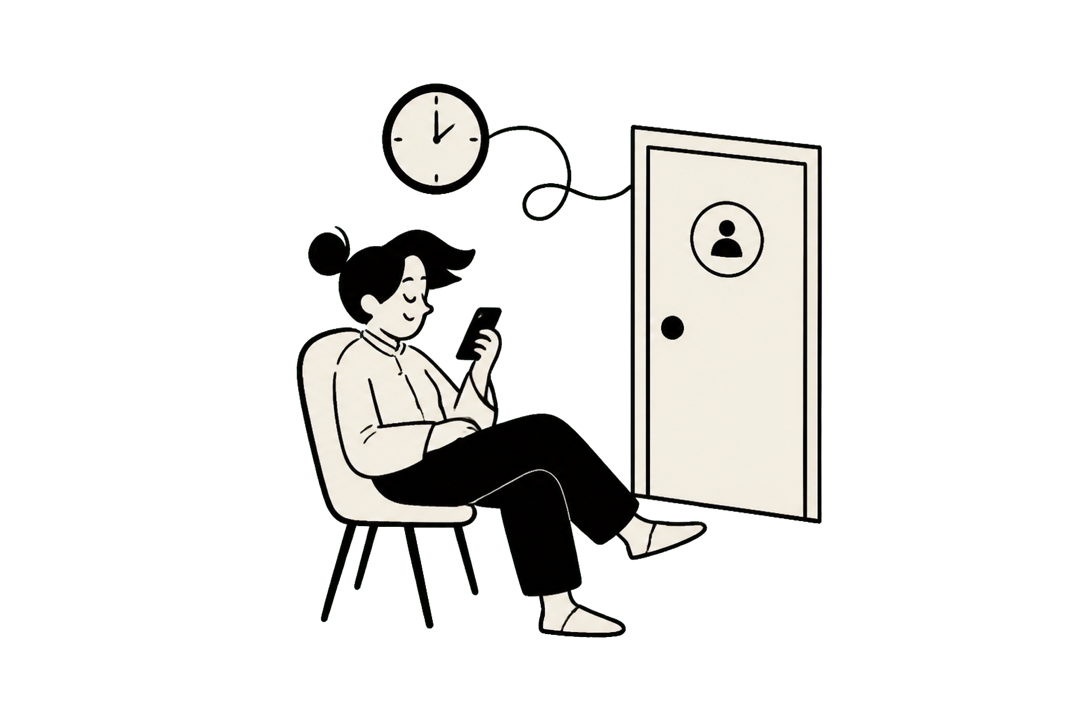
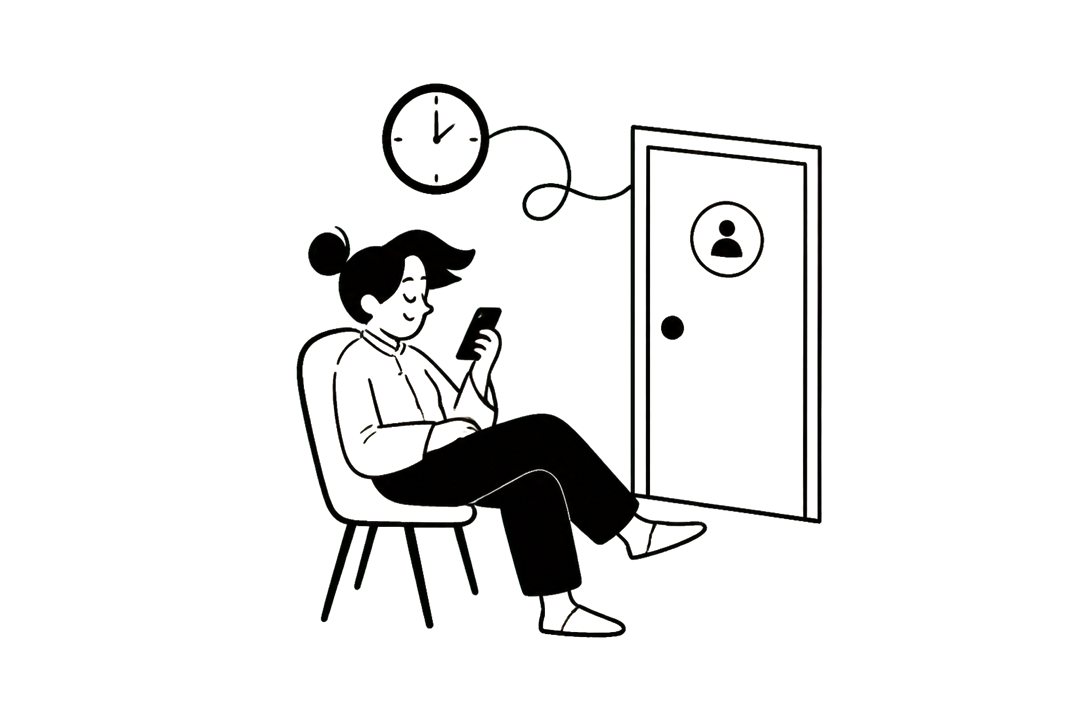
Punch out real alpha transparency in ink-illustration PNGs instead of approximating with mix-blend-mode
The old multiply-blend trick only fully cancels pure white; these PNGs used a
cream canvas plate, so a faint yellow tint still showed through on the grey
page background. Chroma-keyed the cream plate to true transparency in every
state-editorial-v5-ink and loading-v8 asset instead.

diff --git a/b2c/krane-b2c.html b/b2c/krane-b2c.html
@@ -273,12 +273,13 @@
     .state-view__tile:has(.krane-state-art)::before{content:none!important}
     .state-view__visual:has(.krane-state-art)>.state-view__badge{display:none!important}
     .krane-state-art{display:block;width:100%;height:100%;overflow:visible;color:#101722}
-    /* These illustrations are flattened PNGs with an opaque white canvas baked in.
-       Multiply-blending them onto the page removes that white plate and leaves
-       only the ink linework, so the art reads straight onto the cream background.
-       Targeting the <defs> source node too: SVG <use> instances keep the computed
-       style of the original node, not selectors matching the outer .krane-state-art. */
-    .krane-state-defs image,.krane-state-art image{mix-blend-mode:multiply}
+    /* 2026-08-16: these PNGs used to be flattened with an opaque cream canvas
+       baked in, approximated away with mix-blend-mode:multiply. That never
+       fully cancelled the cream (only true white multiplies to nothing), so a
+       faint yellow plate still showed on the grey page background. The source
+       PNGs are now punched out to real alpha transparency, so no blend hack
+       is needed any more; normal blending renders them correctly everywhere,
+       including on non-neutral backdrops like .doctor-work__media--ink. */
     .krane-state-defs{position:absolute;width:0;height:0;overflow:hidden;pointer-events:none}
     /* Styles must also target the source nodes inside <defs>. SVG <use> keeps
        those computed styles when it creates the rendered instance; styling
@@ -2480,7 +2481,7 @@
     <div class="screen__body state-view center" role="status" aria-live="polite">
       <div class="state-view__visual state-view__visual--loading" aria-label="Preparing your information">
         <span class="state-view__tile state-view__tile--cutout loading-illustration" data-loader="paper-crane" aria-hidden="true">
-          <span class="krane-state-art krane-paper-crane-media krane-crane-flipbook" aria-hidden="true"><img class="krane-crane-frame krane-crane-frame--1" src="assets/loading-v8/paper-crane-frame-01-v8.png?v=20260816-white-monochrome-v9" width="560" height="360" alt=""><img class="krane-crane-frame krane-crane-frame--2" src="assets/loading-v8/paper-crane-frame-02-v8.png?v=20260816-white-monochrome-v9" width="560" height="360" alt=""><img class="krane-crane-frame krane-crane-frame--3" src="assets/loading-v8/paper-crane-frame-03-v8.png?v=20260816-white-monochrome-v9" width="560" height="360" alt=""><img class="krane-crane-frame krane-crane-frame--4" src="assets/loading-v8/paper-crane-frame-04-v8.png?v=20260816-white-monochrome-v9" width="560" height="360" alt=""><img class="krane-crane-frame krane-crane-frame--5" src="assets/loading-v8/paper-crane-frame-05-v8.png?v=20260816-white-monochrome-v9" width="560" height="360" alt=""></span>
+          <span class="krane-state-art krane-paper-crane-media krane-crane-flipbook" aria-hidden="true"><img class="krane-crane-frame krane-crane-frame--1" src="assets/loading-v8/paper-crane-frame-01-v8.png?v=20260816-transparent-bg-v1" width="560" height="360" alt=""><img class="krane-crane-frame krane-crane-frame--2" src="assets/loading-v8/paper-crane-frame-02-v8.png?v=20260816-transparent-bg-v1" width="560" height="360" alt=""><img class="krane-crane-frame krane-crane-frame--3" src="assets/loading-v8/paper-crane-frame-03-v8.png?v=20260816-transparent-bg-v1" width="560" height="360" alt=""><img class="krane-crane-frame krane-crane-frame--4" src="assets/loading-v8/paper-crane-frame-04-v8.png?v=20260816-transparent-bg-v1" width="560" height="360" alt=""><img class="krane-crane-frame krane-crane-frame--5" src="assets/loading-v8/paper-crane-frame-05-v8.png?v=20260816-transparent-bg-v1" width="560" height="360" alt=""></span>
         </span>
         <span class="state-view__badge"><i data-lucide="sparkles" class="ui-icon" aria-hidden="true"></i></span>
       </div>
@@ -7837,87 +7838,87 @@
     </g>
 
     <symbol id="krane-state-consult-payment-failed" viewBox="0 0 560 360">
-      <image href="assets/state-editorial-v5-ink/consult-payment-failed.png?v=20260815-active-ink-v1" width="560" height="360" preserveAspectRatio="xMidYMid meet"/>
+      <image href="assets/state-editorial-v5-ink/consult-payment-failed.png?v=20260816-transparent-bg-v1" width="560" height="360" preserveAspectRatio="xMidYMid meet"/>
     </symbol>
 
     <symbol id="krane-state-payment-failed" viewBox="0 0 560 360">
-      <image href="assets/state-editorial-v5-ink/payment-failed.png?v=20260815-active-ink-v1" width="560" height="360" preserveAspectRatio="xMidYMid meet"/>
+      <image href="assets/state-editorial-v5-ink/payment-failed.png?v=20260816-transparent-bg-v1" width="560" height="360" preserveAspectRatio="xMidYMid meet"/>
     </symbol>
 
     <symbol id="krane-state-payment-success" viewBox="0 0 560 360">
-      <image href="assets/state-editorial-v5-ink/payment-success.png?v=20260815-clean-payment-v1" width="560" height="360" preserveAspectRatio="xMidYMid meet"/>
+      <image href="assets/state-editorial-v5-ink/payment-success.png?v=20260816-transparent-bg-v1" width="560" height="360" preserveAspectRatio="xMidYMid meet"/>
     </symbol>
 
     <symbol id="krane-state-doctor-matching" viewBox="0 0 560 360">
-      <image href="assets/state-editorial-v5-ink/doctor-matching-roles-v1.png?v=20260815-role-alignment-v1" width="560" height="360" preserveAspectRatio="xMidYMid meet"/>
+      <image href="assets/state-editorial-v5-ink/doctor-matching-roles-v1.png?v=20260816-transparent-bg-v1" width="560" height="360" preserveAspectRatio="xMidYMid meet"/>
     </symbol>
 
     <symbol id="krane-state-nurse-ready" viewBox="0 0 560 360">
-      <image href="assets/state-editorial-v5-ink/nurse-ready.png?v=20260815-active-ink-v1" width="560" height="360" preserveAspectRatio="xMidYMid meet"/>
+      <image href="assets/state-editorial-v5-ink/nurse-ready.png?v=20260816-transparent-bg-v1" width="560" height="360" preserveAspectRatio="xMidYMid meet"/>
     </symbol>
 
     <symbol id="krane-state-no-slots" viewBox="0 0 560 360">
-      <image href="assets/state-editorial-v5-ink/no-slots.png?v=20260815-active-ink-v1" width="560" height="360" preserveAspectRatio="xMidYMid meet"/>
+      <image href="assets/state-editorial-v5-ink/no-slots.png?v=20260816-transparent-bg-v1" width="560" height="360" preserveAspectRatio="xMidYMid meet"/>
     </symbol>
 
     <symbol id="krane-state-waiting-room" viewBox="0 0 560 360">
-      <image href="assets/state-editorial-v5-ink/waiting-room-roles-v1.png?v=20260815-role-alignment-v1" width="560" height="360" preserveAspectRatio="xMidYMid meet"/>
+      <image href="assets/state-editorial-v5-ink/waiting-room-roles-v1.png?v=20260816-transparent-bg-v1" width="560" height="360" preserveAspectRatio="xMidYMid meet"/>
     </symbol>
 
     <symbol id="krane-state-treatment-plan" viewBox="0 0 560 360">
-      <image href="assets/state-editorial-v5-ink/treatment-plan-roles-v1.png?v=20260815-role-alignment-v1" width="560" height="360" preserveAspectRatio="xMidYMid meet"/>
+      <image href="assets/state-editorial-v5-ink/treatment-plan-roles-v1.png?v=20260816-transparent-bg-v1" width="560" height="360" preserveAspectRatio="xMidYMid meet"/>
     </symbol>
 
     <symbol id="krane-state-delivery-quote" viewBox="0 0 560 360">
-      <image href="assets/state-editorial-v5-ink/delivery-quote.png?v=20260815-active-ink-v1" width="560" height="360" preserveAspectRatio="xMidYMid meet"/>
+      <image href="assets/state-editorial-v5-ink/delivery-quote.png?v=20260816-transparent-bg-v1" width="560" height="360" preserveAspectRatio="xMidYMid meet"/>
     </symbol>
 
     <symbol id="krane-state-pharmacy-search" viewBox="0 0 560 360">
-      <image href="assets/state-editorial-v5-ink/pharmacy-search.png?v=20260815-active-ink-v1" width="560" height="360" preserveAspectRatio="xMidYMid meet"/>
+      <image href="assets/state-editorial-v5-ink/pharmacy-search.png?v=20260816-transparent-bg-v1" width="560" height="360" preserveAspectRatio="xMidYMid meet"/>
     </symbol>
 
     <symbol id="krane-state-medicine-preparing" viewBox="0 0 560 360">
-      <image href="assets/state-editorial-v5-ink/medicine-preparing.png?v=20260815-active-ink-v1" width="560" height="360" preserveAspectRatio="xMidYMid meet"/>
+      <image href="assets/state-editorial-v5-ink/medicine-preparing.png?v=20260816-transparent-bg-v1" width="560" height="360" preserveAspectRatio="xMidYMid meet"/>
     </symbol>
 
     <symbol id="krane-state-pharmacy-confirmed" viewBox="0 0 560 360">
-      <image href="assets/state-editorial-v5-ink/pharmacy-confirmed.png?v=20260815-active-ink-v1" width="560" height="360" preserveAspectRatio="xMidYMid meet"/>
+      <image href="assets/state-editorial-v5-ink/pharmacy-confirmed.png?v=20260816-transparent-bg-v1" width="560" height="360" preserveAspectRatio="xMidYMid meet"/>
     </symbol>
 
     <symbol id="krane-state-delivery-unavailable" viewBox="0 0 560 360">
-      <image href="assets/state-editorial-v5-ink/delivery-unavailable.png?v=20260815-active-ink-v1" width="560" height="360" preserveAspectRatio="xMidYMid meet"/>
+      <image href="assets/state-editorial-v5-ink/delivery-unavailable.png?v=20260816-transparent-bg-v1" width="560" height="360" preserveAspectRatio="xMidYMid meet"/>
     </symbol>
 
     <symbol id="krane-state-order-confirmed" viewBox="0 0 560 360">
-      <image href="assets/state-editorial-v5-ink/order-confirmed.png?v=20260815-active-ink-v1" width="560" height="360" preserveAspectRatio="xMidYMid meet"/>
+      <image href="assets/state-editorial-v5-ink/order-confirmed.png?v=20260816-transparent-bg-v1" width="560" height="360" preserveAspectRatio="xMidYMid meet"/>
     </symbol>
 
     <symbol id="krane-state-in-person" viewBox="0 0 560 360">
-      <image href="assets/state-editorial-v5-ink/in-person-roles-v1.png?v=20260815-role-alignment-v1" width="560" height="360" preserveAspectRatio="xMidYMid meet"/>
+      <image href="assets/state-editorial-v5-ink/in-person-roles-v1.png?v=20260816-transparent-bg-v1" width="560" height="360" preserveAspectRatio="xMidYMid meet"/>
     </symbol>
 
     <symbol id="krane-state-feedback" viewBox="0 0 560 360">
-      <image href="assets/state-editorial-v5-ink/feedback-roles-v1.png?v=20260815-role-alignment-v1" width="560" height="360" preserveAspectRatio="xMidYMid meet"/>
+      <image href="assets/state-editorial-v5-ink/feedback-roles-v1.png?v=20260816-transparent-bg-v1" width="560" height="360" preserveAspectRatio="xMidYMid meet"/>
     </symbol>
 
     <symbol id="krane-state-empty-activities" viewBox="0 0 560 360">
-      <image href="assets/state-editorial-v5-ink/empty-activities.png?v=20260815-active-ink-v1" width="560" height="360" preserveAspectRatio="xMidYMid meet"/>
+      <image href="assets/state-editorial-v5-ink/empty-activities.png?v=20260816-transparent-bg-v1" width="560" height="360" preserveAspectRatio="xMidYMid meet"/>
     </symbol>
 
     <symbol id="krane-state-empty-history" viewBox="0 0 560 360">
-      <image href="assets/state-editorial-v5-ink/empty-history.png?v=20260815-active-ink-v1" width="560" height="360" preserveAspectRatio="xMidYMid meet"/>
+      <image href="assets/state-editorial-v5-ink/empty-history.png?v=20260816-transparent-bg-v1" width="560" height="360" preserveAspectRatio="xMidYMid meet"/>
     </symbol>
 
     <!-- Backwards-compatible empty-state symbol for saved prototype links. -->
     <symbol id="krane-state-empty" viewBox="0 0 560 360">
-      <image href="assets/state-editorial-v5-ink/empty-activities.png?v=20260815-active-ink-v1" width="560" height="360" preserveAspectRatio="xMidYMid meet"/>
+      <image href="assets/state-editorial-v5-ink/empty-activities.png?v=20260816-transparent-bg-v1" width="560" height="360" preserveAspectRatio="xMidYMid meet"/>
     </symbol>
     <symbol id="krane-state-loading-info" viewBox="0 0 560 360">
-      <image href="assets/loading-v8/paper-crane-frame-01-v8.png?v=20260816-white-monochrome-v9" class="krane-crane-frame krane-crane-frame--1" width="560" height="360" preserveAspectRatio="xMidYMid meet"/>
-      <image href="assets/loading-v8/paper-crane-frame-02-v8.png?v=20260816-white-monochrome-v9" class="krane-crane-frame krane-crane-frame--2" width="560" height="360" preserveAspectRatio="xMidYMid meet"/>
-      <image href="assets/loading-v8/paper-crane-frame-03-v8.png?v=20260816-white-monochrome-v9" class="krane-crane-frame krane-crane-frame--3" width="560" height="360" preserveAspectRatio="xMidYMid meet"/>
-      <image href="assets/loading-v8/paper-crane-frame-04-v8.png?v=20260816-white-monochrome-v9" class="krane-crane-frame krane-crane-frame--4" width="560" height="360" preserveAspectRatio="xMidYMid meet"/>
-      <image href="assets/loading-v8/paper-crane-frame-05-v8.png?v=20260816-white-monochrome-v9" class="krane-crane-frame krane-crane-frame--5" width="560" height="360" preserveAspectRatio="xMidYMid meet"/>
+      <image href="assets/loading-v8/paper-crane-frame-01-v8.png?v=20260816-transparent-bg-v1" class="krane-crane-frame krane-crane-frame--1" width="560" height="360" preserveAspectRatio="xMidYMid meet"/>
+      <image href="assets/loading-v8/paper-crane-frame-02-v8.png?v=20260816-transparent-bg-v1" class="krane-crane-frame krane-crane-frame--2" width="560" height="360" preserveAspectRatio="xMidYMid meet"/>
+      <image href="assets/loading-v8/paper-crane-frame-03-v8.png?v=20260816-transparent-bg-v1" class="krane-crane-frame krane-crane-frame--3" width="560" height="360" preserveAspectRatio="xMidYMid meet"/>
+      <image href="assets/loading-v8/paper-crane-frame-04-v8.png?v=20260816-transparent-bg-v1" class="krane-crane-frame krane-crane-frame--4" width="560" height="360" preserveAspectRatio="xMidYMid meet"/>
+      <image href="assets/loading-v8/paper-crane-frame-05-v8.png?v=20260816-transparent-bg-v1" class="krane-crane-frame krane-crane-frame--5" width="560" height="360" preserveAspectRatio="xMidYMid meet"/>
     </symbol>
   </defs>
 </svg>

diff --git a/b2c/state-illustrations-ink.html b/b2c/state-illustrations-ink.html
@@ -44,12 +44,12 @@
     </div>
   </header>
   <main>
-    <article><div class="art-wrap"><picture class="art-media"><source media="(prefers-reduced-motion: reduce)" srcset="assets/state-editorial-v5-ink/loading-info.png?v=20260815-ink-crane-motion-v1"><img class="art" src="assets/state-editorial-v5-ink/loading-info-flipbook-v1.webp?v=20260815-ink-crane-motion-v1" alt="นกกระดาษกำลังกระพือปีกสำหรับสถานะกำลังเตรียมข้อมูล"></picture></div><div class="label"><strong>กำลังเตรียมข้อมูล</strong><span>Loading · Paper crane</span></div></article>
-    <article><div class="art-wrap"><img class="art" src="assets/state-editorial-v5-ink/doctor-matching-roles-v1.png?v=20260815-role-alignment-v1" alt="ผู้ป่วยชายกำลังจับคู่กับแพทย์ชาย"></div><div class="label"><strong>กำลังค้นหาแพทย์</strong><span>Doctor matching</span></div></article>
+    <article><div class="art-wrap"><picture class="art-media"><source media="(prefers-reduced-motion: reduce)" srcset="assets/state-editorial-v5-ink/loading-info.png?v=20260816-transparent-bg-v1"><img class="art" src="assets/state-editorial-v5-ink/loading-info-flipbook-v1.webp?v=20260816-transparent-bg-v1" alt="นกกระดาษกำลังกระพือปีกสำหรับสถานะกำลังเตรียมข้อมูล"></picture></div><div class="label"><strong>กำลังเตรียมข้อมูล</strong><span>Loading · Paper crane</span></div></article>
+    <article><div class="art-wrap"><img class="art" src="assets/state-editorial-v5-ink/doctor-matching-roles-v1.png?v=20260816-transparent-bg-v1" alt="ผู้ป่วยชายกำลังจับคู่กับแพทย์ชาย"></div><div class="label"><strong>กำลังค้นหาแพทย์</strong><span>Doctor matching</span></div></article>
     <article><div class="art-wrap"><img class="art" src="assets/state-editorial-v5-ink/no-slots.png" alt="ยังไม่มีแพทย์ว่าง"></div><div class="label"><strong>ยังไม่มีแพทย์ว่าง</strong><span>No doctor available</span></div></article>
-    <article><div class="art-wrap"><img class="art" src="assets/state-editorial-v5-ink/waiting-room-roles-v1.png?v=20260815-role-alignment-v1" alt="ผู้ป่วยชายกำลังรอเข้าห้องปรึกษา"></div><div class="label"><strong>กำลังรอเข้าห้องปรึกษา</strong><span>Doctor waiting room</span></div></article>
+    <article><div class="art-wrap"><img class="art" src="assets/state-editorial-v5-ink/waiting-room-roles-v1.png?v=20260816-transparent-bg-v1" alt="ผู้ป่วยชายกำลังรอเข้าห้องปรึกษา"></div><div class="label"><strong>กำลังรอเข้าห้องปรึกษา</strong><span>Doctor waiting room</span></div></article>
     <article><div class="art-wrap"><img class="art" src="assets/state-editorial-v5-ink/nurse-ready.png" alt="พยาบาลพร้อมคัดกรอง"></div><div class="label"><strong>พยาบาลพร้อมคัดกรอง</strong><span>Nurse ready</span></div></article>
-    <article><div class="art-wrap"><img class="art" src="assets/state-editorial-v5-ink/treatment-plan-roles-v1.png?v=20260815-role-alignment-v1" alt="แพทย์ชายกำลังเขียนแผน"></div><div class="label"><strong>แพทย์กำลังเขียนแผน</strong><span>Treatment plan</span></div></article>
+    <article><div class="art-wrap"><img class="art" src="assets/state-editorial-v5-ink/treatment-plan-roles-v1.png?v=20260816-transparent-bg-v1" alt="แพทย์ชายกำลังเขียนแผน"></div><div class="label"><strong>แพทย์กำลังเขียนแผน</strong><span>Treatment plan</span></div></article>
     <article><div class="art-wrap"><img class="art" src="assets/state-editorial-v5-ink/delivery-quote.png" alt="กำลังคำนวณการจัดส่ง"></div><div class="label"><strong>กำลังคำนวณการจัดส่ง</strong><span>Delivery estimate</span></div></article>
     <article><div class="art-wrap"><img class="art" src="assets/state-editorial-v5-ink/pharmacy-search.png" alt="เภสัชกรกำลังตรวจคำสั่งซื้อ"></div><div class="label"><strong>เภสัชกรกำลังตรวจคำสั่งซื้อ</strong><span>Pharmacy review</span></div></article>
     <article><div class="art-wrap"><img class="art" src="assets/state-editorial-v5-ink/medicine-preparing.png" alt="กำลังจัดเตรียมยา"></div><div class="label"><strong>กำลังจัดเตรียมยา</strong><span>Medicine preparation</span></div></article>
@@ -59,8 +59,8 @@
     <article><div class="art-wrap"><img class="art" src="assets/state-editorial-v5-ink/payment-failed.png" alt="ชำระค่ายาไม่สำเร็จ"></div><div class="label"><strong>ชำระค่ายาไม่สำเร็จ</strong><span>Order payment recovery</span></div></article>
     <article><div class="art-wrap"><img class="art" src="assets/state-editorial-v5-ink/payment-success.png" alt="ชำระเงินสำเร็จ"></div><div class="label"><strong>ชำระเงินสำเร็จ</strong><span>Payment success</span></div></article>
     <article><div class="art-wrap"><img class="art" src="assets/state-editorial-v5-ink/order-confirmed.png" alt="ยืนยันคำสั่งซื้อแล้ว"></div><div class="label"><strong>ยืนยันคำสั่งซื้อแล้ว</strong><span>Order confirmed</span></div></article>
-    <article><div class="art-wrap"><img class="art" src="assets/state-editorial-v5-ink/in-person-roles-v1.png?v=20260815-role-alignment-v1" alt="ผู้ป่วยชายกำลังไปพบแพทย์ชายที่คลินิก"></div><div class="label"><strong>ควรพบแพทย์ที่คลินิก</strong><span>In-person care</span></div></article>
-    <article><div class="art-wrap"><img class="art" src="assets/state-editorial-v5-ink/feedback-roles-v1.png?v=20260815-role-alignment-v1" alt="ผู้ป่วยชายส่งความคิดเห็นแล้ว"></div><div class="label"><strong>ส่งความคิดเห็นแล้ว</strong><span>Feedback submitted</span></div></article>
+    <article><div class="art-wrap"><img class="art" src="assets/state-editorial-v5-ink/in-person-roles-v1.png?v=20260816-transparent-bg-v1" alt="ผู้ป่วยชายกำลังไปพบแพทย์ชายที่คลินิก"></div><div class="label"><strong>ควรพบแพทย์ที่คลินิก</strong><span>In-person care</span></div></article>
+    <article><div class="art-wrap"><img class="art" src="assets/state-editorial-v5-ink/feedback-roles-v1.png?v=20260816-transparent-bg-v1" alt="ผู้ป่วยชายส่งความคิดเห็นแล้ว"></div><div class="label"><strong>ส่งความคิดเห็นแล้ว</strong><span>Feedback submitted</span></div></article>
     <article><div class="art-wrap"><img class="art" src="assets/state-editorial-v5-ink/empty-activities.png" alt="ยังไม่มีคำสั่งซื้อ"></div><div class="label"><strong>ยังไม่มีคำสั่งซื้อ</strong><span>Empty activities</span></div></article>
     <article><div class="art-wrap"><img class="art" src="assets/state-editorial-v5-ink/empty-history.png" alt="ยังไม่มีประวัติปรึกษา"></div><div class="label"><strong>ยังไม่มีประวัติปรึกษา</strong><span>Empty history</span></div></article>
   </main>

diff --git a/b2c/state-illustrations.html b/b2c/state-illustrations.html
@@ -63,7 +63,7 @@
     </div>
   </header>
   <main>
-    <article><div class="art-wrap"><span class="art-media crane-flipbook" role="img" aria-label="นกกระดาษลายเส้นนุ่มโทนขาวกำลังกระพือปีกสำหรับสถานะกำลังเตรียมข้อมูล"><img class="crane-frame crane-frame--1" src="assets/loading-v8/paper-crane-frame-01-v8.png?v=20260816-white-monochrome-v9" alt=""><img class="crane-frame crane-frame--2" src="assets/loading-v8/paper-crane-frame-02-v8.png?v=20260816-white-monochrome-v9" alt=""><img class="crane-frame crane-frame--3" src="assets/loading-v8/paper-crane-frame-03-v8.png?v=20260816-white-monochrome-v9" alt=""><img class="crane-frame crane-frame--4" src="assets/loading-v8/paper-crane-frame-04-v8.png?v=20260816-white-monochrome-v9" alt=""><img class="crane-frame crane-frame--5" src="assets/loading-v8/paper-crane-frame-05-v8.png?v=20260816-white-monochrome-v9" alt=""></span></div><div class="label"><strong>กำลังเตรียมข้อมูล</strong><span>Loading · Soft paper crane flipbook</span></div></article>
+    <article><div class="art-wrap"><span class="art-media crane-flipbook" role="img" aria-label="นกกระดาษลายเส้นนุ่มโทนขาวกำลังกระพือปีกสำหรับสถานะกำลังเตรียมข้อมูล"><img class="crane-frame crane-frame--1" src="assets/loading-v8/paper-crane-frame-01-v8.png?v=20260816-transparent-bg-v1" alt=""><img class="crane-frame crane-frame--2" src="assets/loading-v8/paper-crane-frame-02-v8.png?v=20260816-transparent-bg-v1" alt=""><img class="crane-frame crane-frame--3" src="assets/loading-v8/paper-crane-frame-03-v8.png?v=20260816-transparent-bg-v1" alt=""><img class="crane-frame crane-frame--4" src="assets/loading-v8/paper-crane-frame-04-v8.png?v=20260816-transparent-bg-v1" alt=""><img class="crane-frame crane-frame--5" src="assets/loading-v8/paper-crane-frame-05-v8.png?v=20260816-transparent-bg-v1" alt=""></span></div><div class="label"><strong>กำลังเตรียมข้อมูล</strong><span>Loading · Soft paper crane flipbook</span></div></article>
     <article><div class="art-wrap"><img class="art" src="assets/state-editorial-v3-simple/doctor-matching.png" alt="กำลังจับคู่แพทย์"></div><div class="label"><strong>กำลังค้นหาแพทย์</strong><span>Doctor matching</span></div></article>
     <article><div class="art-wrap"><img class="art" src="assets/state-editorial-v4-objects/no-slots.png" alt="ยังไม่มีแพทย์ว่าง"></div><div class="label"><strong>ยังไม่มีแพทย์ว่าง</strong><span>No doctor available</span></div></article>
     <article><div class="art-wrap"><img class="art" src="assets/state-editorial-v3-simple/waiting-room.png" alt="กำลังรอเข้าห้องปรึกษา"></div><div class="label"><strong>กำลังรอเข้าห้องปรึกษา</strong><span>Doctor waiting room</span></div></article>

diff --git a/b2c/doctor-detail.html b/b2c/doctor-detail.html
@@ -74,7 +74,7 @@
     <div class="doctor-work__stories">
       <article class="doctor-work__story">
         <figure class="doctor-work__media doctor-work__media--ink">
-          <img src="assets/state-editorial-v5-ink/doctor-matching-roles-v1.png" width="1080" height="720" loading="lazy" decoding="async" alt="ภาพประกอบการจับคู่ผู้รับบริการกับแพทย์ที่เหมาะสม">
+          <img src="assets/state-editorial-v5-ink/doctor-matching-roles-v1.png?v=20260816-transparent-bg-v1" width="1080" height="720" loading="lazy" decoding="async" alt="ภาพประกอบการจับคู่ผู้รับบริการกับแพทย์ที่เหมาะสม">
         </figure>
         <div class="doctor-work__copy">
           <span class="doctor-work__number">01</span>
